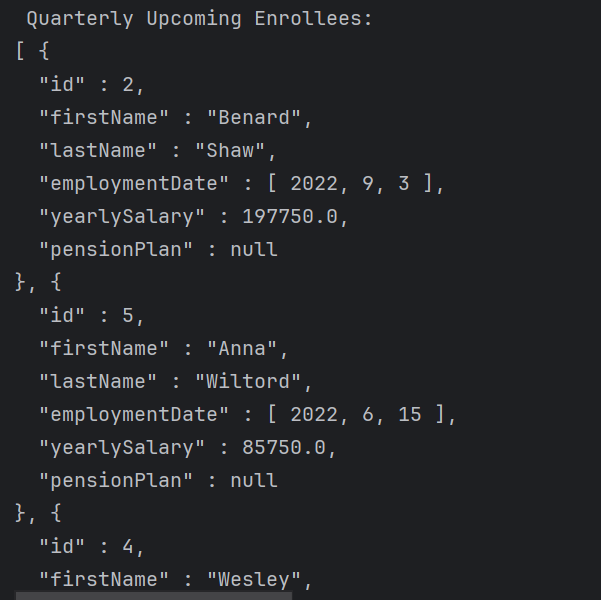
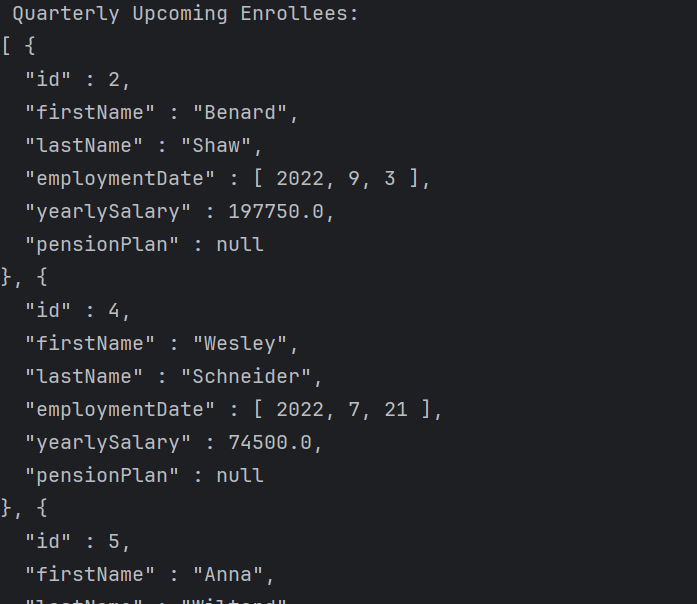
Implemented sorting

diff --git a/src/main/java/mkoner/Main.java b/src/main/java/mkoner/Main.java
@@ -8,6 +8,7 @@ import mkoner.model.PensionPlan;
 
 import java.time.LocalDate;
 import java.util.ArrayList;
+import java.util.Comparator;
 import java.util.List;
 
 public class Main {
@@ -47,12 +48,13 @@ public class Main {
 
     public static void printAllEmployees(List<Employee> employees) {
 
-            employees.sort((a, b) ->{
-                if(a.getYearlySalary() == b.getYearlySalary()) {
-                    return String.CASE_INSENSITIVE_ORDER.compare(a.getLastName(), b.getLastName());
-                }
-                return  Double.compare(b.getYearlySalary(), a.getYearlySalary());
-            });
+//            employees.sort((a, b) ->{
+//                if(a.getYearlySalary() == b.getYearlySalary()) {
+//                    return String.CASE_INSENSITIVE_ORDER.compare(a.getLastName(), b.getLastName());
+//                }
+//                return  Double.compare(b.getYearlySalary(), a.getYearlySalary());
+//            });
+        employees.sort(Comparator.comparing(Employee::getYearlySalary).reversed().thenComparing(Comparator.comparing(Employee::getLastName)));
             System.out.println("All employees:");
             System.out.println(toJson(employees));
     }
@@ -64,6 +66,7 @@ public class Main {
                 upcomingEnrollees.add(employee);
             }
         }
+        upcomingEnrollees.sort(Comparator.comparing(Employee::getEmploymentDate).reversed());
         System.out.println(" Quarterly Upcoming Enrollees:");
         System.out.println(toJson(upcomingEnrollees));
     }
